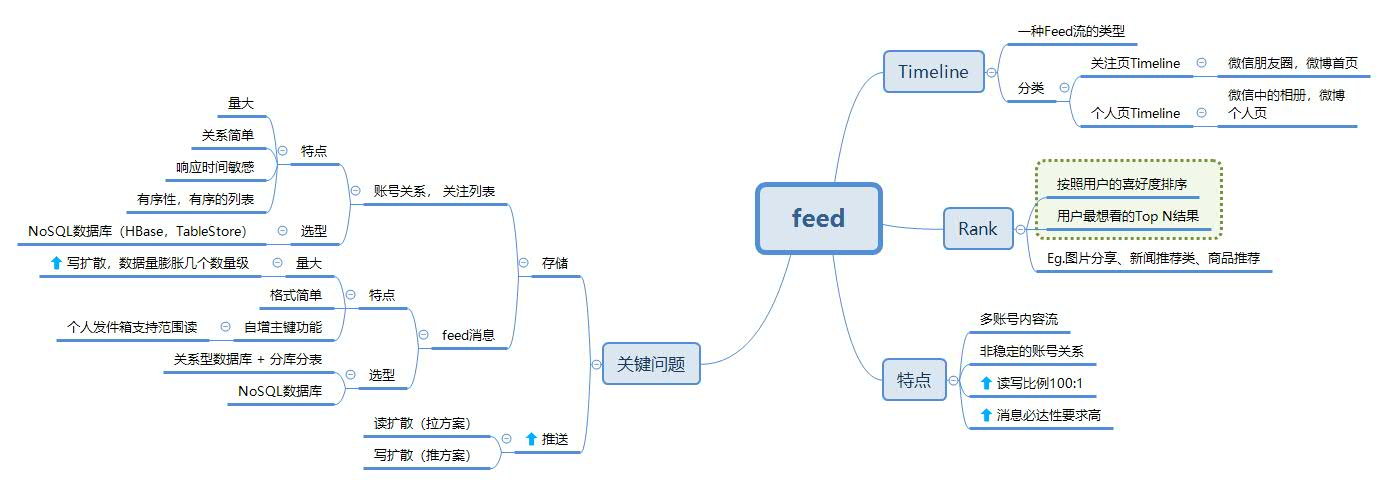
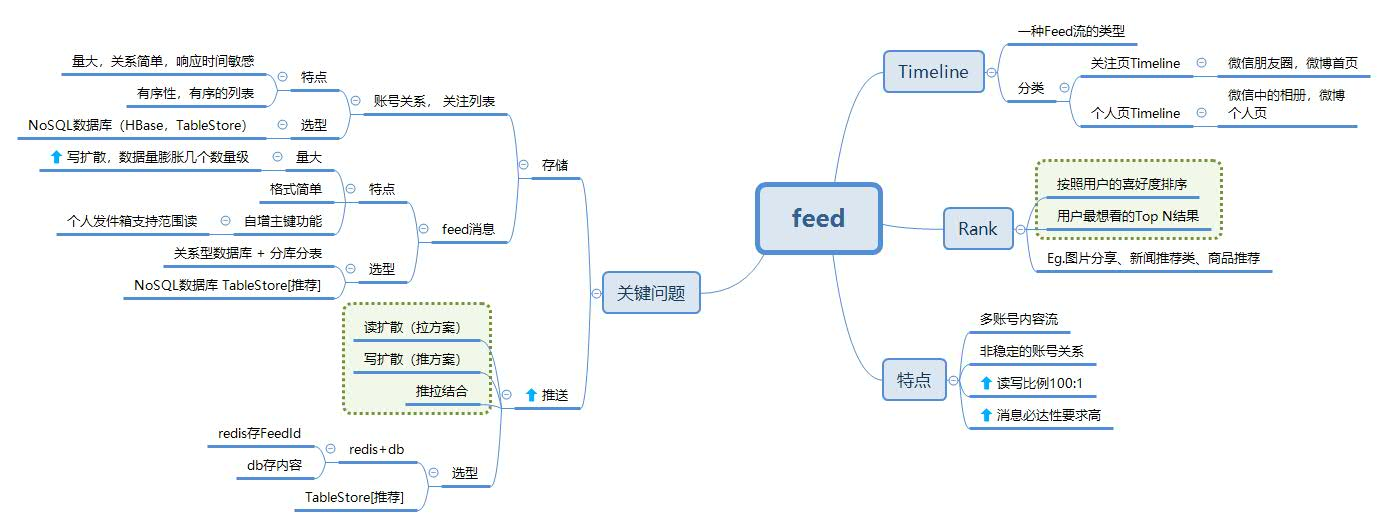
add

Changed region(s): [[0.0, 0.0309, 0.9914, 0.9897], [0.3718, 0.2784, 0.4337, 0.3402]]

diff --git a/source/_posts/feed.md b/source/_posts/feed.md
@@ -15,8 +15,23 @@ categories:
 {% asset_img   feed.jpg  Feed总结  %}
 
 <div style="text-align: center;">
-![timeline读扩散/写扩散混合](https://user-images.githubusercontent.com/5608425/65009396-16312f80-d93f-11e9-9f1f-5beb374034d2.png)
-timeline读扩散/写扩散混合
+![Timeline读扩散/写扩散混合](https://user-images.githubusercontent.com/5608425/65009396-16312f80-d93f-11e9-9f1f-5beb374034d2.png)
+基于用户类型的Timeline推拉结合(读扩散/写扩散混合) - 上面是发布流程，下面是阅读流程
+</div>
+
+
+| |拉模式(读扩散)	| +推模式(写扩散)|
+|:---:|:---:|:---:|
+|发布	| 个人页Timeline（发件箱）	| 粉丝的关注页（收件箱）| 
+|阅读	|所有关注者的个人页Timeline	|自己的关注页Timeline| 
+|网络最大开销	  | 用户刷新时	| 发布Feed时 |
+|读写放大	  | 放大读：读写比例到1万:1	| 放大写减少读：读写比例到50:50 |
+|副作用| 响应时间长 |数据会极大膨胀|
+|针对副作用的优化-推拉结合||1.大V采用拉模式，普通用户使用推模式<br>2.对活跃粉丝采用推模式，非活跃粉丝采用拉模式|
+
+<div style="text-align: center;">
+![Rank](https://user-images.githubusercontent.com/5608425/65016689-792ec080-d957-11e9-9834-6a3d5c93e647.png)
+Rank
 </div>
 
 ## 参考:
